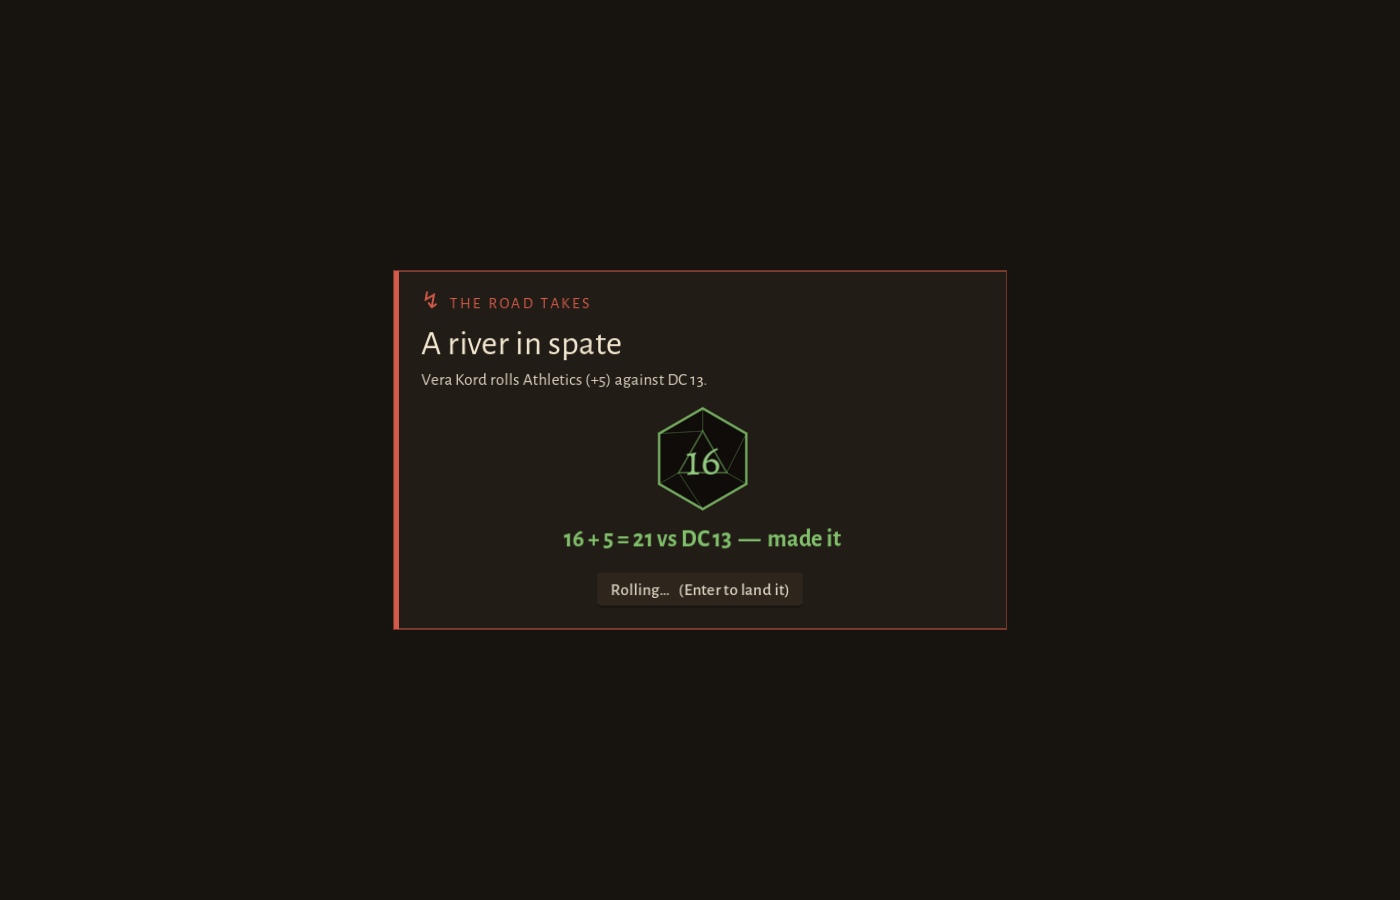
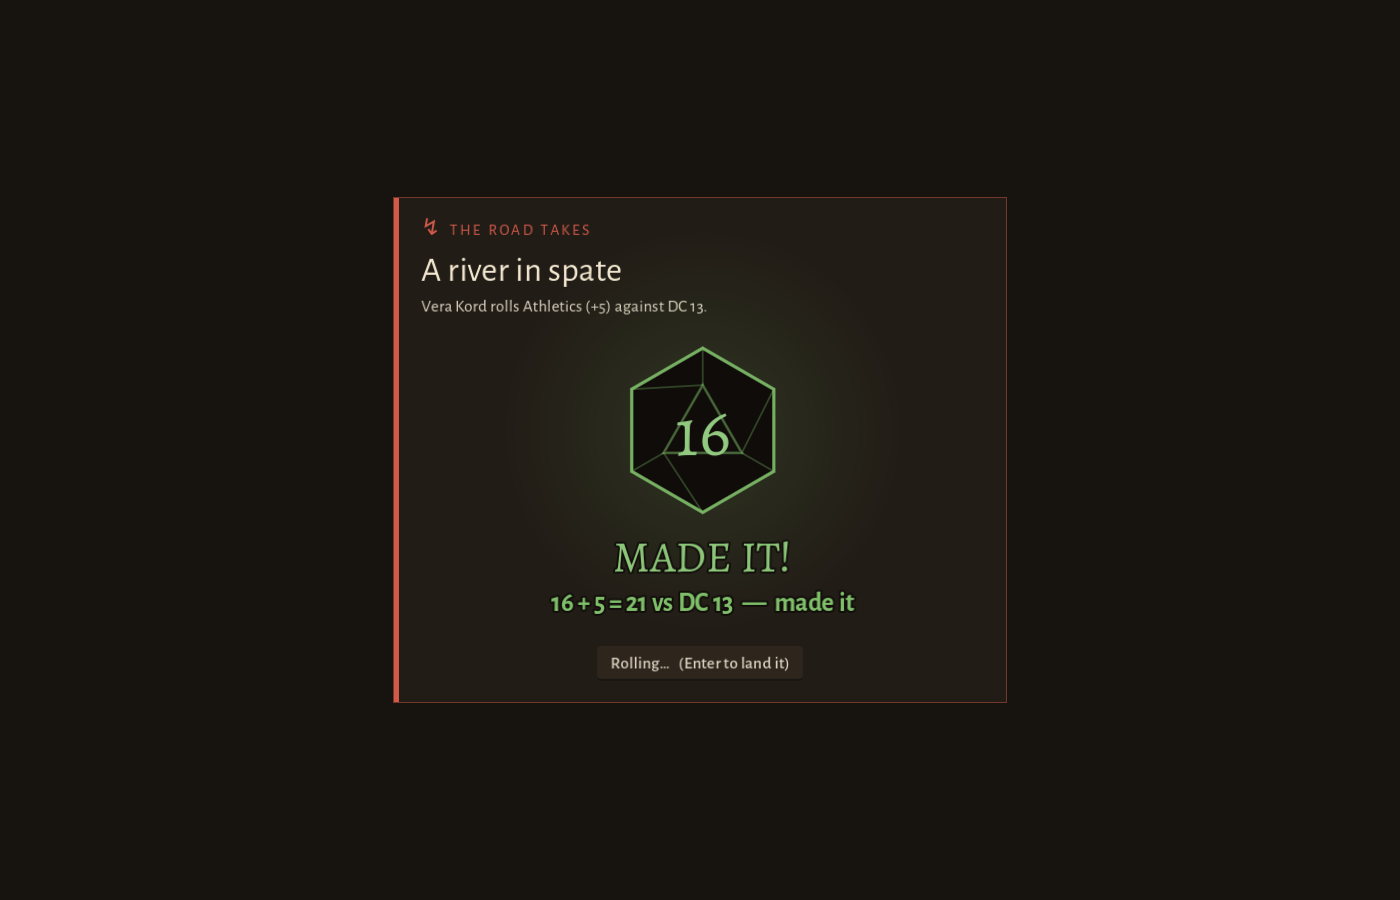
The die is bigger and lands with a show: flash, shockwaves, rays, a verdict
The owner: "make the dice larger and animations flashy". DiceRoll is 150
px (was 92) and runs off one clock: it drops in spinning with a motion
trail, the faces slow as it settles (never showing its answer early),
then it slams and springs back with a white flash, two shockwave rings,
rays and sparks — a miss shakes and throws falling red shards, a natural
20 that counted keeps a turning gold sunburst — and a big verdict word
("MADE IT!", "MISSED", "NATURAL 20!", "NATURAL 1") slams in over the
tally. All of it counted off the clock and the natural, no RNG.
DiceRoll.HEIGHT sizes the road's card and the popup.

tests/gif_dice_roll.gd steps the clock frame by frame for
docs/shots/live-roll.gif; the stills are retaken.

Claude-Session: https://claude.ai/code/session_019eqg1iZ35fYFRmC11R2cGm

Changed region(s): [[0.2764, 0.2178, 0.6143, 0.6844], [0.43, 0.7156, 0.5836, 0.7467], [0.2764, 0.6844, 0.3071, 0.7778]]

diff --git a/docs/expansion-plan.md b/docs/expansion-plan.md
@@ -8846,6 +8846,27 @@ failed sneak's follow-up, the lair's own prompt, waits for the landing too, so
 the die says "missed" before the lair notices you. `WorldLairs.sneak_past`'s
 result now names its skill.
 
+**Bigger and flashier** (the owner: "make the dice larger and animations
+flashy"). The die is 150 px, up from 92. Everything runs off one clock
+(`_t`, stepped by the tween, 2.55 s at normal speed):
+- **The tumble** (1.05 s): the die drops in from above, spins fast and spins
+  down, wobbling, with a motion trail. The faces tick slower as it settles,
+  and it never shows the face it will land on before it lands.
+- **Touchdown:** the die slams, springs back, and flashes white. Two
+  shockwave rings go out, rays spear from it, and sparks fly off.
+  - A miss shakes, and its sparks are red shards that fall.
+  - A natural 20 that counted is gold and keeps a slow sunburst turning
+    behind it.
+- **The verdict:** a big word ("MADE IT!", "MISSED", "NATURAL 20!",
+  "NATURAL 1") slams in from twice its size, and the arithmetic slides up
+  under it.
+
+The angles, the shake and the faces are all counted off the clock and the
+natural, never an RNG. `DiceRoll.HEIGHT` is what a caller sizes it to; the
+road's card and the popup both use it. The GIF is `docs/shots/live-roll.gif`,
+from `tests/gif_dice_roll.gd`, which steps the clock by hand one frame at a
+time.
+
 `DiceRoll` used to set its size and mouse filter in `_ready()`, which runs
 after the caller's own settings and quietly undid them. Both popups collapsed
 to a thin strip while they still had frames, and a click on the map's die
@@ -8855,7 +8876,8 @@ are now set in `_init()`.
 Under SORCMERC_FAST (every test and robot), and at the Instant pace, every one
 of these says its line on the first frame, exactly as before.
 
-Tests: `tests/test_live_rolls_world.gd` (19 checks, renamed from
+Tests: `tests/test_dice_roll.gd` gains the verdict words and the no-early-face
+check (28 checks). `tests/test_live_rolls_world.gd` (19 checks, renamed from
 `test_live_rolls_town.gd`), covering both halves:
 - an investigate's die holds back the line, and the buttons wait for it
 - Enter lands it: the line is said, the buttons come back, and the visit's
